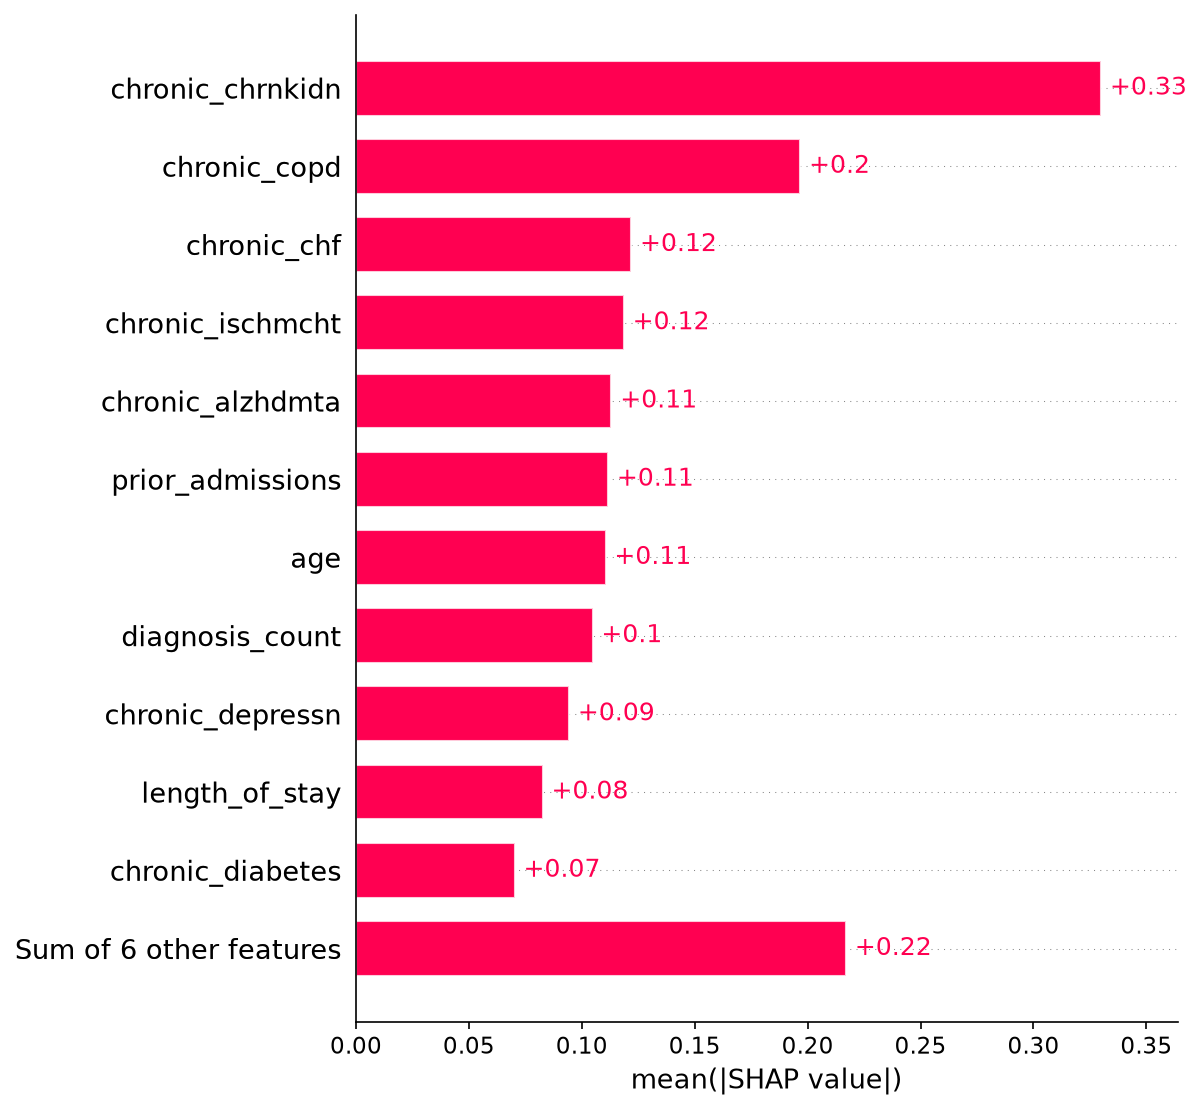
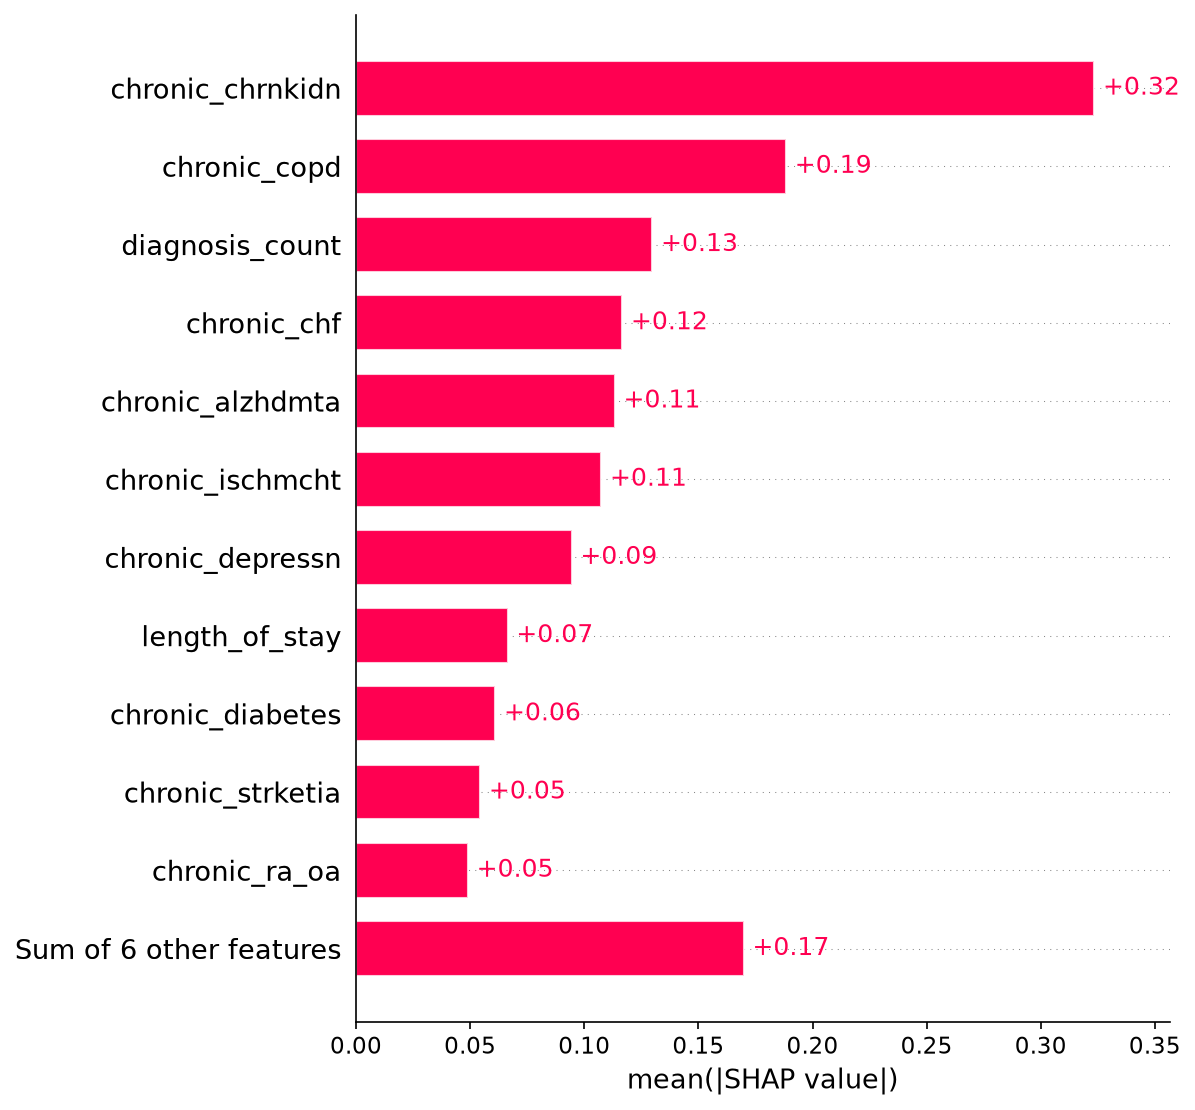
fix: regenerate evaluation notebook with constrained model

diff --git a/notebooks/02_evaluation.html b/notebooks/02_evaluation.html
@@ -7800,7 +7800,7 @@ jupytext:
   text_representation:
     extension: .py
     format_name: percent
----<div class="jp-Cell jp-CodeCell jp-Notebook-cell" id="cell-id=27b99069">
+---<div class="jp-Cell jp-CodeCell jp-Notebook-cell" id="cell-id=5401d682">
 <div class="jp-Cell-inputWrapper" tabindex="0">
 <div class="jp-Collapser jp-InputCollapser jp-Cell-inputCollapser">
 </div>
@@ -7831,7 +7831,7 @@ jupytext:
 </div>
 </div>
 </div>
-</div><div class="jp-Cell jp-CodeCell jp-Notebook-cell" id="cell-id=f188ccd5">
+</div><div class="jp-Cell jp-CodeCell jp-Notebook-cell" id="cell-id=84235b4f">
 <div class="jp-Cell-inputWrapper" tabindex="0">
 <div class="jp-Collapser jp-InputCollapser jp-Cell-inputCollapser">
 </div>
@@ -7875,7 +7875,7 @@ jupytext:
 </div>
 </div>
 </div>
-<div class="jp-Cell jp-MarkdownCell jp-Notebook-cell" id="cell-id=61463964">
+<div class="jp-Cell jp-MarkdownCell jp-Notebook-cell" id="cell-id=ad03f6ce">
 <div class="jp-Cell-inputWrapper" tabindex="0">
 <div class="jp-Collapser jp-InputCollapser jp-Cell-inputCollapser">
 </div>
@@ -7885,7 +7885,7 @@ jupytext:
 </div>
 </div>
 </div>
-</div><div class="jp-Cell jp-CodeCell jp-Notebook-cell" id="cell-id=4cfcb9bc">
+</div><div class="jp-Cell jp-CodeCell jp-Notebook-cell" id="cell-id=5a1e8a3e">
 <div class="jp-Cell-inputWrapper" tabindex="0">
 <div class="jp-Collapser jp-InputCollapser jp-Cell-inputCollapser">
 </div>
@@ -7910,18 +7910,18 @@ jupytext:
 <div class="jp-RenderedText jp-OutputArea-output" data-mime-type="text/plain" tabindex="0">
 <pre>Predictions: (13355, 3)
    y_true  y_pred    y_prob
-0       0       1  0.630488
-1       0       1  0.535389
-2       0       0  0.277608
-3       0       0  0.271977
-4       0       0  0.201464
+0       0       1  0.616342
+1       0       1  0.500352
+2       0       0  0.340499
+3       0       0  0.234264
+4       0       0  0.303438
 </pre>
 </div>
 </div>
 </div>
 </div>
 </div>
-<div class="jp-Cell jp-MarkdownCell jp-Notebook-cell" id="cell-id=7ec4376b">
+<div class="jp-Cell jp-MarkdownCell jp-Notebook-cell" id="cell-id=85cc9d8a">
 <div class="jp-Cell-inputWrapper" tabindex="0">
 <div class="jp-Collapser jp-InputCollapser jp-Cell-inputCollapser">
 </div>
@@ -7931,7 +7931,7 @@ jupytext:
 </div>
 </div>
 </div>
-</div><div class="jp-Cell jp-CodeCell jp-Notebook-cell" id="cell-id=7d678dc6">
+</div><div class="jp-Cell jp-CodeCell jp-Notebook-cell" id="cell-id=5f7dab17">
 <div class="jp-Cell-inputWrapper" tabindex="0">
 <div class="jp-Collapser jp-InputCollapser jp-Cell-inputCollapser">
 </div>
@@ -7962,7 +7962,7 @@ Model features (17): ['age', 'sex', 'race', 'length_of_stay', 'diagnosis_count',
 </div>
 </div>
 </div>
-<div class="jp-Cell jp-MarkdownCell jp-Notebook-cell" id="cell-id=6613ac61">
+<div class="jp-Cell jp-MarkdownCell jp-Notebook-cell" id="cell-id=7ca4cbb0">
 <div class="jp-Cell-inputWrapper" tabindex="0">
 <div class="jp-Collapser jp-InputCollapser jp-Cell-inputCollapser">
 </div>
@@ -7972,7 +7972,7 @@ Model features (17): ['age', 'sex', 'race', 'length_of_stay', 'diagnosis_count',
 </div>
 </div>
 </div>
-</div><div class="jp-Cell jp-CodeCell jp-Notebook-cell" id="cell-id=794d98b0">
+</div><div class="jp-Cell jp-CodeCell jp-Notebook-cell" id="cell-id=bb8018bb">
 <div class="jp-Cell-inputWrapper" tabindex="0">
 <div class="jp-Collapser jp-InputCollapser jp-Cell-inputCollapser">
 </div>
@@ -8003,7 +8003,7 @@ Model features (17): ['age', 'sex', 'race', 'length_of_stay', 'diagnosis_count',
 </div>
 </div>
 </div>
-<div class="jp-Cell jp-MarkdownCell jp-Notebook-cell" id="cell-id=64beb630">
+<div class="jp-Cell jp-MarkdownCell jp-Notebook-cell" id="cell-id=81ea88b2">
 <div class="jp-Cell-inputWrapper" tabindex="0">
 <div class="jp-Collapser jp-InputCollapser jp-Cell-inputCollapser">
 </div>
@@ -8013,7 +8013,7 @@ Model features (17): ['age', 'sex', 'race', 'length_of_stay', 'diagnosis_count',
 </div>
 </div>
 </div>
-</div><div class="jp-Cell jp-CodeCell jp-Notebook-cell" id="cell-id=70130064">
+</div><div class="jp-Cell jp-CodeCell jp-Notebook-cell" id="cell-id=e7f8f01f">
 <div class="jp-Cell-inputWrapper" tabindex="0">
 <div class="jp-Collapser jp-InputCollapser jp-Cell-inputCollapser">
 </div>
@@ -8047,14 +8047,14 @@ Model features (17): ['age', 'sex', 'race', 'length_of_stay', 'diagnosis_count',
 <div class="jp-OutputArea-child">
 <div class="jp-OutputPrompt jp-OutputArea-prompt"></div>
 <div class="jp-RenderedText jp-OutputArea-output" data-mime-type="text/plain" tabindex="0">
-<pre>✓ ROC curve saved. AUC = 0.6667
+<pre>✓ ROC curve saved. AUC = 0.6648
 </pre>
 </div>
 </div>
 </div>
 </div>
 </div>
-<div class="jp-Cell jp-MarkdownCell jp-Notebook-cell" id="cell-id=2ebbf654">
+<div class="jp-Cell jp-MarkdownCell jp-Notebook-cell" id="cell-id=37807d0b">
 <div class="jp-Cell-inputWrapper" tabindex="0">
 <div class="jp-Collapser jp-InputCollapser jp-Cell-inputCollapser">
 </div>
@@ -8064,7 +8064,7 @@ Model features (17): ['age', 'sex', 'race', 'length_of_stay', 'diagnosis_count',
 </div>
 </div>
 </div>
-</div><div class="jp-Cell jp-CodeCell jp-Notebook-cell" id="cell-id=683a2ba4">
+</div><div class="jp-Cell jp-CodeCell jp-Notebook-cell" id="cell-id=fd70282e">
 <div class="jp-Cell-inputWrapper" tabindex="0">
 <div class="jp-Collapser jp-InputCollapser jp-Cell-inputCollapser">
 </div>
@@ -8099,14 +8099,14 @@ Model features (17): ['age', 'sex', 'race', 'length_of_stay', 'diagnosis_count',
 <div class="jp-OutputArea-child">
 <div class="jp-OutputPrompt jp-OutputArea-prompt"></div>
 <div class="jp-RenderedText jp-OutputArea-output" data-mime-type="text/plain" tabindex="0">
-<pre>✓ PR curve saved. Average Precision = 0.1783
+<pre>✓ PR curve saved. Average Precision = 0.1732
 </pre>
 </div>
 </div>
 </div>
 </div>
 </div>
-<div class="jp-Cell jp-MarkdownCell jp-Notebook-cell" id="cell-id=6683199d">
+<div class="jp-Cell jp-MarkdownCell jp-Notebook-cell" id="cell-id=1a689d78">
 <div class="jp-Cell-inputWrapper" tabindex="0">
 <div class="jp-Collapser jp-InputCollapser jp-Cell-inputCollapser">
 </div>
@@ -8116,7 +8116,7 @@ Model features (17): ['age', 'sex', 'race', 'length_of_stay', 'diagnosis_count',
 </div>
 </div>
 </div>
-</div><div class="jp-Cell jp-CodeCell jp-Notebook-cell" id="cell-id=f654e008">
+</div><div class="jp-Cell jp-CodeCell jp-Notebook-cell" id="cell-id=1ddde2f7">
 <div class="jp-Cell-inputWrapper" tabindex="0">
 <div class="jp-Collapser jp-InputCollapser jp-Cell-inputCollapser">
 </div>
@@ -8149,14 +8149,14 @@ Model features (17): ['age', 'sex', 'race', 'length_of_stay', 'diagnosis_count',
 <div class="jp-OutputPrompt jp-OutputArea-prompt"></div>
 <div class="jp-RenderedText jp-OutputArea-output" data-mime-type="text/plain" tabindex="0">
 <pre>✓ Confusion matrix saved.
-TN=7633, FP=4369, FN=523, TP=830
+TN=7226, FP=4776, FN=474, TP=879
 </pre>
 </div>
 </div>
 </div>
 </div>
 </div>
-<div class="jp-Cell jp-MarkdownCell jp-Notebook-cell" id="cell-id=bd428163">
+<div class="jp-Cell jp-MarkdownCell jp-Notebook-cell" id="cell-id=5f84cd82">
 <div class="jp-Cell-inputWrapper" tabindex="0">
 <div class="jp-Collapser jp-InputCollapser jp-Cell-inputCollapser">
 </div>
@@ -8166,7 +8166,7 @@ TN=7633, FP=4369, FN=523, TP=830
 </div>
 </div>
 </div>
-</div><div class="jp-Cell jp-CodeCell jp-Notebook-cell" id="cell-id=7bf029de">
+</div><div class="jp-Cell jp-CodeCell jp-Notebook-cell" id="cell-id=75174256">
 <div class="jp-Cell-inputWrapper" tabindex="0">
 <div class="jp-Collapser jp-InputCollapser jp-Cell-inputCollapser">
 </div>
@@ -8190,12 +8190,12 @@ TN=7633, FP=4369, FN=523, TP=830
 <div class="jp-RenderedText jp-OutputArea-output" data-mime-type="text/plain" tabindex="0">
 <pre>              precision    recall  f1-score   support
 
-           0       0.94      0.64      0.76     12002
-           1       0.16      0.61      0.25      1353
+           0       0.94      0.60      0.73     12002
+           1       0.16      0.65      0.25      1353
 
-    accuracy                           0.63     13355
-   macro avg       0.55      0.62      0.51     13355
-weighted avg       0.86      0.63      0.71     13355
+    accuracy                           0.61     13355
+   macro avg       0.55      0.63      0.49     13355
+weighted avg       0.86      0.61      0.68     13355
 
 </pre>
 </div>
@@ -8203,7 +8203,7 @@ weighted avg       0.86      0.63      0.71     13355
 </div>
 </div>
 </div>
-<div class="jp-Cell jp-MarkdownCell jp-Notebook-cell" id="cell-id=8d356e8c">
+<div class="jp-Cell jp-MarkdownCell jp-Notebook-cell" id="cell-id=873b0467">
 <div class="jp-Cell-inputWrapper" tabindex="0">
 <div class="jp-Collapser jp-InputCollapser jp-Cell-inputCollapser">
 </div>
@@ -8213,7 +8213,7 @@ weighted avg       0.86      0.63      0.71     13355
 </div>
 </div>
 </div>
-</div><div class="jp-Cell jp-CodeCell jp-Notebook-cell" id="cell-id=8f6729c2">
+</div><div class="jp-Cell jp-CodeCell jp-Notebook-cell" id="cell-id=5f24a706">
 <div class="jp-Cell-inputWrapper" tabindex="0">
 <div class="jp-Collapser jp-InputCollapser jp-Cell-inputCollapser">
 </div>
@@ -8291,7 +8291,7 @@ weighted avg       0.86      0.63      0.71     13355
 </div>
 </div>
 </div>
-<div class="jp-Cell jp-MarkdownCell jp-Notebook-cell" id="cell-id=b18677b9">
+<div class="jp-Cell jp-MarkdownCell jp-Notebook-cell" id="cell-id=8fd5dbc6">
 <div class="jp-Cell-inputWrapper" tabindex="0">
 <div class="jp-Collapser jp-InputCollapser jp-Cell-inputCollapser">
 </div>
